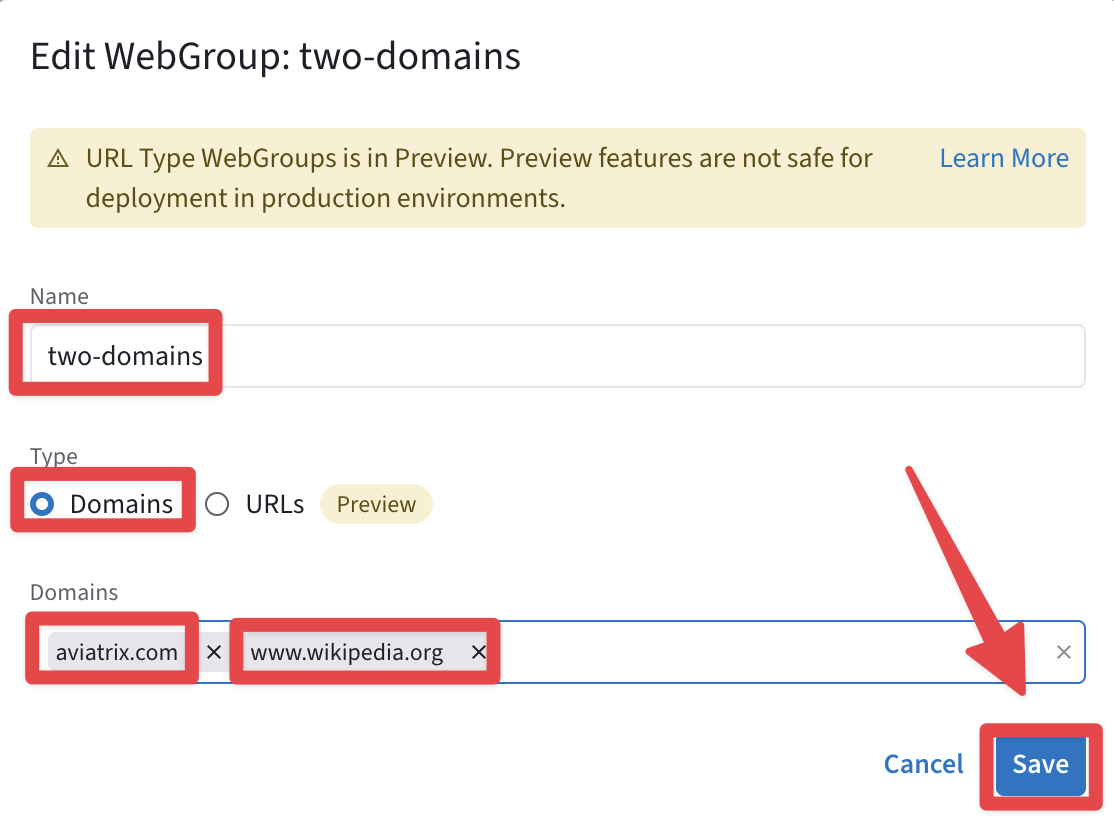
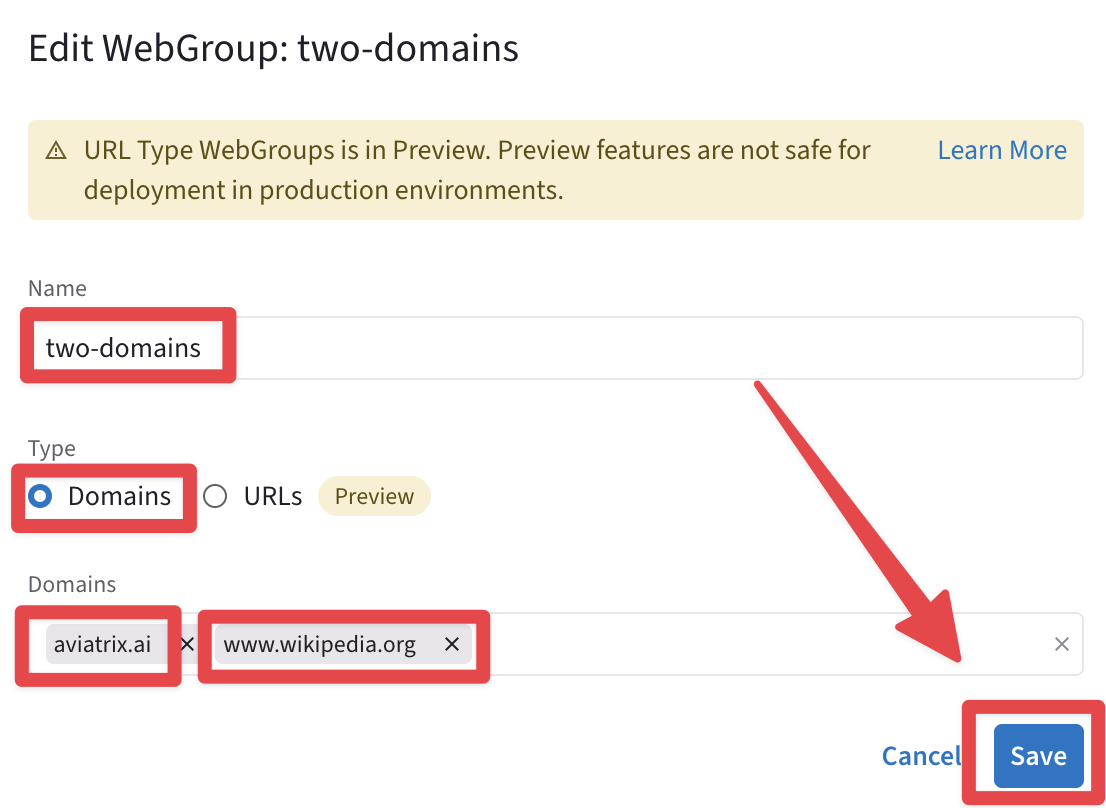
update for pro

diff --git a/ace_pro/docs/lab5.md b/ace_pro/docs/lab5.md
@@ -72,7 +72,7 @@ aws-us-east-2-spoke1-test2
 ```
 
 The private workload is generating traffic to **four** domains:
-1) aviatrix.com
+1) aviatrix.ai
 2) www.espn.com
 3) www.football.com
 4) www.wikipedia.org
@@ -125,7 +125,7 @@ Retrieve the private IP
 Now, launch the following curl commands:
 
 ```bash
-curl -I https://aviatrix.com
+curl -I https://aviatrix.ai
 ```
 ```bash
 curl -I https://www.espn.com
